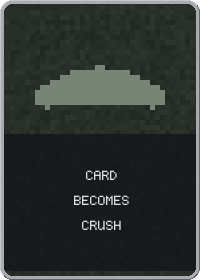
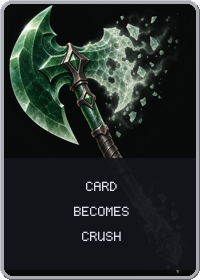
Essence art lands, and the sentence gets a box to sit in
Every essence now has a picture of its own. The fifteen generated PNGs were
filed with `go run ./tools/relicart -kind essence` — reduced from the
generator's 1060x1484 to the card's own 200x280, committed under
`assets/essence/`, and recorded on their records in `data/essences.json`.
Nothing in the catalog draws `default-essence.png` any more, and nothing is
left to draw.

The text band is reshaped, because the art arriving is what made the old one
wrong. It ran 140 to 265 — five lines, starting halfway down the card — so a
one-line essence, which is most of the catalog, floated in the middle of the
picture on a scrim covering nearly half of it. It is now exactly four lines of
`TextLineHeight`, 164 to 264, tucked against the bottom edge: with `scrimPad`
the band ends at 270 and leaves six pixels of picture under it before the
border. A shorter sentence still centers in the band, so a one-line essence and
a four-line one are the same card. `remove-ap` is the four-line case and fills
it exactly.

`scrimAlpha` goes 205 to 238. The band is a box the sentence is written in
rather than a tint over the art, which is the honest thing for it to be: an
essence's whole content is that sentence, and the picture under it was authored
without knowing where the words would land. It is not fully opaque, so the art
is still faintly continuing behind the box rather than being cut off by it. The
constant is shared with `RelicStyle`, but a relic carries no text band, so
[…]

diff --git a/docs/sheets/essencesheet/index.html b/docs/sheets/essencesheet/index.html
@@ -82,14 +82,14 @@
 
 <h1>Essence sheet</h1>
 <p class="facts">
-  15 essences, 15 of them drawing the default face, 0 with no subject
+  15 essences, 0 of them drawing the default face, 0 with no subject
   paragraph written. 2 are offered after a won fight — 13.3% of the catalog gets
   a seat. Essence card <code>200&times;280</code>,
   corner radius <code>15</code>,
   border <code>4</code>,
   art box inset <code>0</code> from
   <code>y=0</code> at most <code>0</code> tall,
-  text band from <code>y=140</code>.
+  text band from <code>y=164</code>.
   Shown at 1:1 on the ground the essences are actually offered on.
 </p>
 <p class="note">
@@ -178,7 +178,7 @@
         <p class="rule">remove</p>
         <p class="border">border: basic — grants no element</p>
         
-          <p class="art missing">no art of its own — drawing default-essence.png</p>
+          <p class="art">art: <code>dissolve</code></p>
         
       </div>
     </div>
@@ -196,7 +196,7 @@
         <p class="rule">duplicate</p>
         <p class="border">border: basic — grants no element</p>
         
-          <p class="art missing">no art of its own — drawing default-essence.png</p>
+          <p class="art">art: <code>multiply</code></p>
         
       </div>
     </div>
@@ -222,7 +222,7 @@
         <p class="rule">element → fire</p>
         <p class="border">border: fire</p>
         
-          <p class="art missing">no art of its own — drawing default-essence.png</p>
+          <p class="art">art: <code>change-fire</code></p>
         
       </div>
     </div>
@@ -240,7 +240,7 @@
         <p class="rule">element → ice</p>
         <p class="border">border: ice</p>
         
-          <p class="art missing">no art of its own — drawing default-essence.png</p>
+          <p class="art">art: <code>change-ice</code></p>
         
       </div>
     </div>
@@ -258,7 +258,7 @@
         <p class="rule">element → lightning</p>
         <p class="border">border: lightning</p>
         
-          <p class="art missing">no art of its own — drawing default-essence.png</p>
+          <p class="art">art: <code>change-lightning</code></p>
         
       </div>
     </div>
@@ -276,7 +276,7 @@
         <p class="rule">element → earth</p>
         <p class="border">border: earth</p>
         
-          <p class="art missing">no art of its own — drawing default-essence.png</p>
+          <p class="art">art: <code>change-earth</code></p>
         
       </div>
     </div>
@@ -294,7 +294,7 @@
         <p class="rule">element → arcane</p>
         <p class="border">border: arcane</p>
         
-          <p class="art missing">no art of its own — drawing default-essence.png</p>
+          <p class="art">art: <code>change-arcane</code></p>
         
       </div>
     </div>
@@ -320,7 +320,7 @@
         <p class="rule">cost -1 AP, floored at zero</p>
         <p class="border">border: basic — grants no element</p>
         
-          <p class="art missing">no art of its own — drawing default-essence.png</p>
+          <p class="art">art: <code>remove-ap</code></p>
         
       </div>
     </div>
@@ -338,7 +338,7 @@
         <p class="rule">amount × 150%</p>
         <p class="border">border: basic — grants no element</p>
         
-          <p class="art missing">no art of its own — drawing default-essence.png</p>
+          <p class="art">art: <code>add-dmg</code></p>
         
       </div>
     </div>
@@ -356,7 +356,7 @@
         <p class="rule">promote</p>
         <p class="border">border: basic — grants no element</p>
         
-          <p class="art missing">no art of its own — drawing default-essence.png</p>
+          <p class="art">art: <code>add-ap</code></p>
         
       </div>
     </div>
@@ -374,7 +374,7 @@
         <p class="rule">demote</p>
         <p class="border">border: basic — grants no element</p>
         
-          <p class="art missing">no art of its own — drawing default-essence.png</p>
+          <p class="art">art: <code>demote</code></p>
         
       </div>
     </div>
@@ -400,7 +400,7 @@
         <p class="rule">form</p>
         <p class="border">border: basic — grants no element</p>
         
-          <p class="art missing">no art of its own — drawing default-essence.png</p>
+          <p class="art">art: <code>change-crush</code></p>
         
       </div>
     </div>
@@ -418,7 +418,7 @@
         <p class="rule">form</p>
         <p class="border">border: basic — grants no element</p>
         
-          <p class="art missing">no art of its own — drawing default-essence.png</p>
+          <p class="art">art: <code>change-slash</code></p>
         
       </div>
     </div>
@@ -436,7 +436,7 @@
         <p class="rule">form</p>
         <p class="border">border: basic — grants no element</p>
         
-          <p class="art missing">no art of its own — drawing default-essence.png</p>
+          <p class="art">art: <code>change-stab</code></p>
         
       </div>
     </div>
@@ -454,7 +454,7 @@
         <p class="rule">form</p>
         <p class="border">border: basic — grants no element</p>
         
-          <p class="art missing">no art of its own — drawing default-essence.png</p>
+          <p class="art">art: <code>change-defend</code></p>
         
       </div>
     </div>

diff --git a/internal/cards/bleed.go b/internal/cards/bleed.go
@@ -51,10 +51,12 @@ var (
 )
 
 const (
-	// scrimAlpha is how much of the picture a scrim keeps. High enough that a light figure
-	// clears the loudest thing the art is allowed to put under it, low enough that the picture
-	// is still visibly continuing behind the words rather than stopping at a bar.
-	scrimAlpha = 205
+	// scrimAlpha is how much of the picture a scrim keeps. **Mostly opaque** *(owner's call,
+	// 2026-09-13)*: the band is a box the sentence is written in rather than a tint over the art,
+	// because an essence's whole content is that sentence and the art under it was authored
+	// without knowing where the words would land. It is not fully opaque, so the picture is still
+	// faintly continuing behind the box rather than being cut off by it.
+	scrimAlpha = 238
 
 	// scrimPad is the breathing room a scrim leaves above and below the type it is under. A band
 	// stopping exactly on the ink reads as a highlighter rather than as a surface.

diff --git a/internal/cards/style.go b/internal/cards/style.go
@@ -626,8 +626,16 @@ var EssenceStyle = Style{
 	// should look like the same card.
 	TextColumnLeft: 15,
 	TextInset:      10,
-	TextBandTop:    140,
-	TextBandBottom: 265,
+
+	// **Four lines, tucked against the bottom edge** *(owner's call, 2026-09-13)*. The band was
+	// 125 tall and started halfway down the card, which put a one-line sentence — which is most
+	// of the catalog — floating in the middle of the picture on a scrim covering nearly half of
+	// it. It is now exactly four lines of TextLineHeight, sitting as low as the scrim's own
+	// padding allows: 264 plus scrimPad is 270, which leaves six pixels of picture under the
+	// band before the border. A shorter sentence still centers in the band, so a one-line essence
+	// and a four-line one are the same card.
+	TextBandTop:    164,
+	TextBandBottom: 264,
 	TextSize:       21.25,
 	TextLineHeight: 25,
 }
